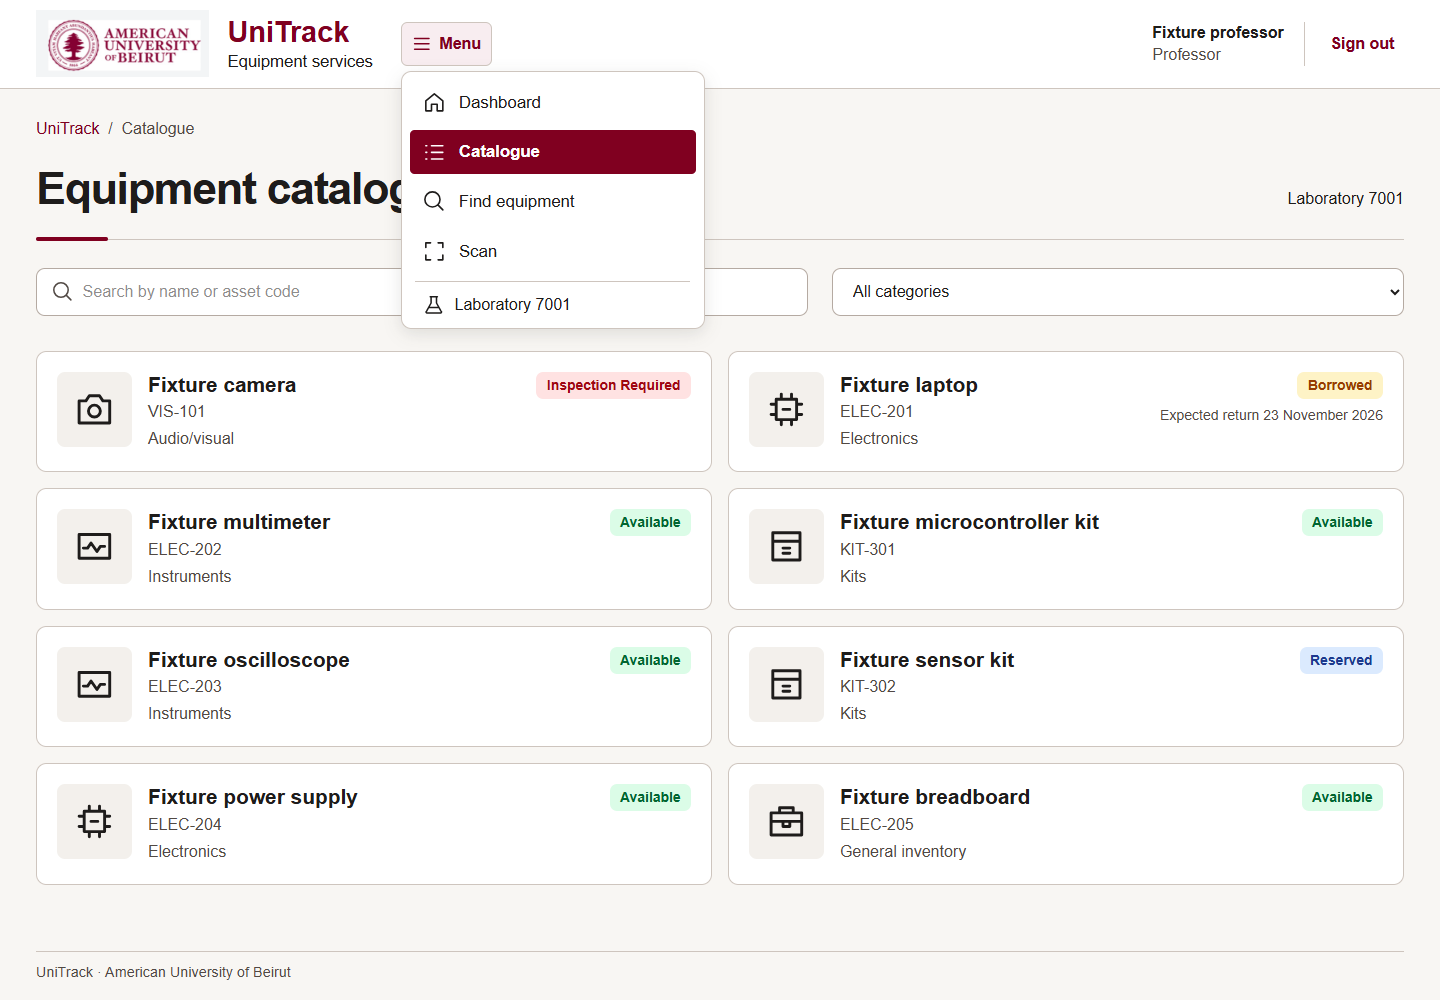
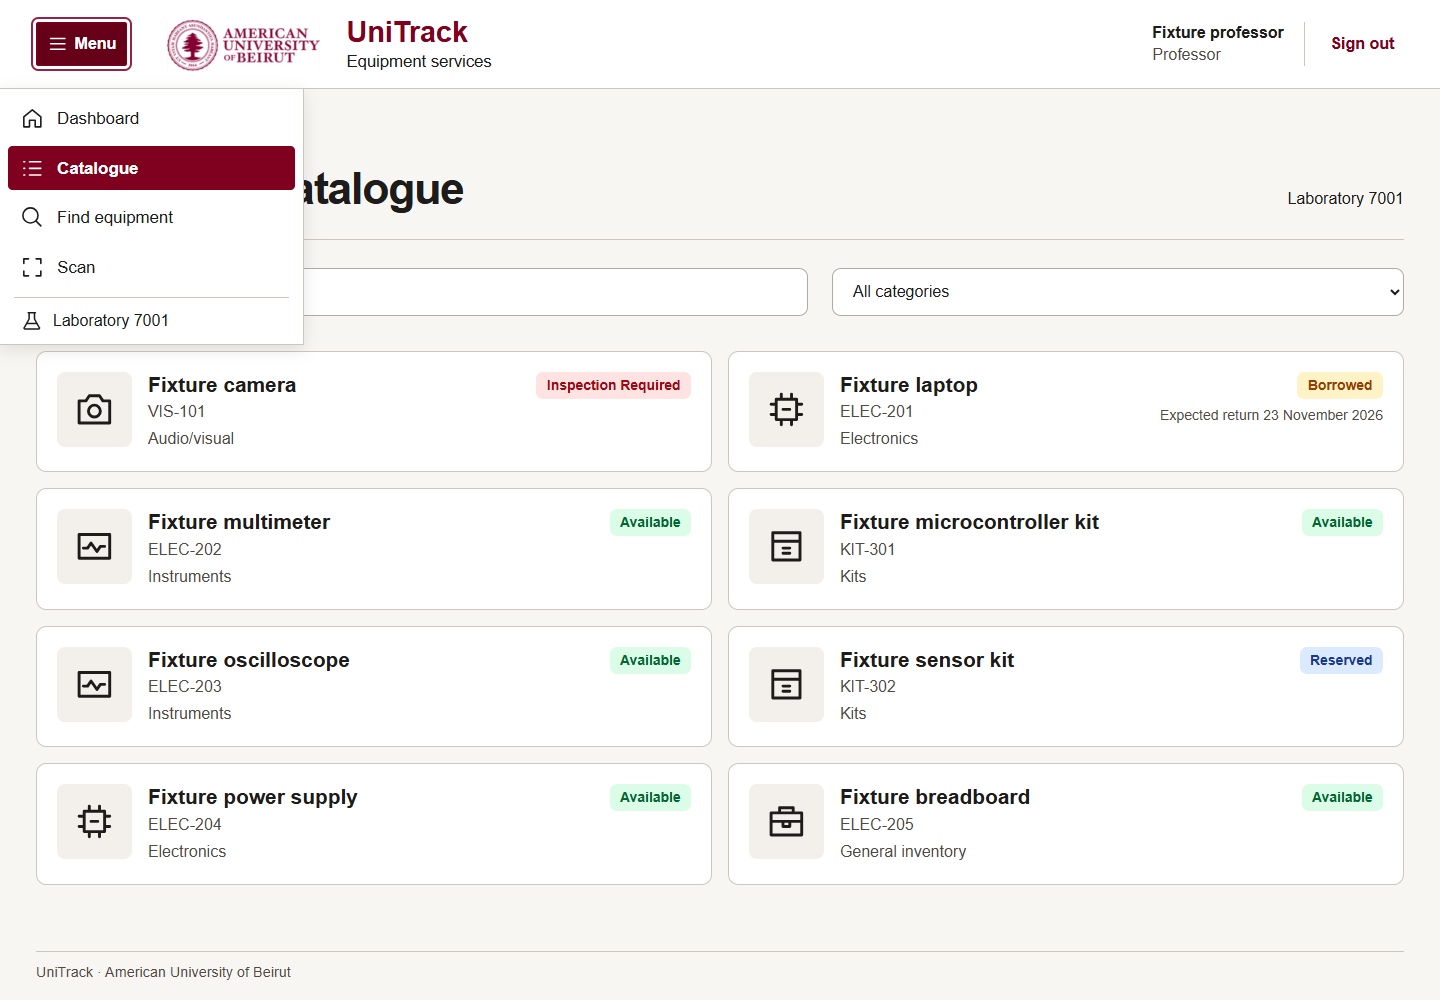
Refine the AUB header and left navigation drawer

Changed region(s): [[0.0, 0.0, 0.5, 0.341], [0.3125, 0.248, 0.4062, 0.31]]

diff --git a/apps/web/app/globals.css b/apps/web/app/globals.css
@@ -168,7 +168,7 @@ body {
   white-space: nowrap;
 }
 
-.sign-out:hover, .menu-toggle:hover { background: var(--color-aub-50); }
+.sign-out:hover { background: var(--color-aub-50); }
 
 .skip-link {
   position: absolute;
@@ -198,19 +198,24 @@ body {
   display: inline-flex;
   align-items: center;
   gap: .4rem;
-  border: 1px solid var(--line);
+  border: 1px solid var(--brand);
+  border-radius: .15rem;
+  background: var(--brand);
+  color: white;
 }
+
+.menu-toggle:hover, .menu-toggle[aria-expanded="true"] { background: var(--color-aub-800); }
 
 .workspace-menu-panel {
   position: absolute;
-  inset-block-start: calc(100% + .35rem);
-  inset-inline-start: var(--gutter);
-  width: min(19rem, calc(100% - 2 * var(--gutter)));
-  max-height: min(27rem, 65dvh);
+  inset-block-start: 100%;
+  inset-inline-start: 0;
+  width: min(19rem, calc(100% - 1rem));
+  max-height: min(30rem, 70dvh);
   overflow: auto;
   padding: .5rem;
   border: 1px solid var(--line);
-  border-radius: .65rem;
+  border-inline-start: 0;
   background: var(--paper);
   box-shadow: 0 .3rem 1rem #302c2920;
 }
@@ -409,11 +414,6 @@ body {
 .public-panel h1 { font-size: clamp(1.75rem, 3vw, 2.3rem); }
 .public-shell .site-footer { margin: 0 var(--gutter) 1rem; }
 
-@media (min-width: 45rem) {
-  .workspace-menu { position: relative; }
-  .workspace-menu-panel { inset-inline-start: 0; width: 19rem; }
-}
-
 @media (max-width: 68rem) {
   .catalogue-card-heading { grid-template-columns: auto minmax(0, 1fr); }
   .catalogue-status { grid-column: 2; text-align: left; }
@@ -426,6 +426,14 @@ body {
   .catalogue-filters, .catalogue-grid { grid-template-columns: minmax(0, 1fr); }
   .catalogue-card-heading { min-height: 0; }
   .public-content { align-items: start; }
+}
+
+@media (max-width: 23rem) {
+  .workspace-header-start { column-gap: .5rem; }
+  .workspace-header-start .brand { gap: .45rem; }
+  .workspace-header-start .brand img { width: 5rem; }
+  .workspace-header-start .brand-wordmark > span { font-size: .72rem; }
+  .menu-toggle { padding-inline: .45rem; }
 }
 
 .reserve-dates { container-type: inline-size; }

diff --git a/apps/web/tests/roles-navigation.test.tsx b/apps/web/tests/roles-navigation.test.tsx
@@ -41,6 +41,10 @@ describe("roles and navigation", () => {
     expect(markup).toContain('aria-expanded="false"');
     expect(markup).toContain('aria-controls="workspace-menu-panel"');
     expect(markup).toMatch(/id="workspace-menu-panel"[^>]+hidden=""/);
+    expect(markup.indexOf('aria-controls="workspace-menu-panel"')).toBeLessThan(
+      markup.indexOf('alt="American University of Beirut"'),
+    );
+    expect(markup).toContain('src="/aub-logo-transparent.png"');
     expect(markup).toMatch(/href="\/catalogue" aria-current="page"|aria-current="page" href="\/catalogue"/);
     expect(markup.match(/aria-label="Primary navigation"/g)).toHaveLength(1);
 

diff --git a/apps/web/components/app-navigation.tsx b/apps/web/components/app-navigation.tsx
@@ -10,8 +10,8 @@ export function AppNavigation({ profile }: { profile: Profile }) {
       <a className="skip-link" href="#main-content">Skip to content</a>
       <header className="institutional-header workspace-header">
         <div className="workspace-header-start">
-          <Brand href="/dashboard" />
           <WorkspaceMenu links={workspaceLinks(profile.role)} labId={profile.lab_id} />
+          <Brand href="/dashboard" />
         </div>
         <div className="workspace-account">
           <div className="account-identity">

diff --git a/apps/web/components/brand.tsx b/apps/web/components/brand.tsx
@@ -4,7 +4,7 @@ import Link from "next/link";
 export function Brand({ href = "/" }: { href?: string }) {
   return (
     <Link href={href} className="brand">
-      <Image src="/aub-logo.png" alt="American University of Beirut" width={427} height={165} loading="eager" unoptimized />
+      <Image src="/aub-logo-transparent.png" alt="American University of Beirut" width={427} height={165} loading="eager" unoptimized />
       <span className="brand-wordmark">
         <strong>UniTrack</strong>
         <span>Equipment services</span>

diff --git a/docs/aub-frontend-review.md b/docs/aub-frontend-review.md
@@ -14,9 +14,9 @@
 
 - The AUB workspace covers login, access denial, missing pages, dashboard, catalogue, lookup, scan, custody forms, and manager equipment, kits, categories, and roles. The catalogue retains its URL and uses Equipment’s name and asset-code search. On scan, asset-code lookup now comes before the scanner’s manual UUID fallback. Catalogue icons use known category names or the kit flag, with a generic icon for unknown categories.
 - At 375 pixels on handover and return, the skip link is visually clipped until focused. Keyboard focus puts it in a row above the header. Enter moves focus to `main#main-content`, then the link is visually clipped again. The updated screenshots were captured after clearing focus.
-- A single three-line Menu button opens the same role-aware navigation on desktop and mobile. The menu starts closed, and the layout uses the space formerly occupied by the sidebar. Forms retain readable maximum widths. Escape restores focus to Menu. Clicking outside or selecting a destination closes the overlay. Active links and dashboard shortcuts remain available.
+- A rectangular burgundy Menu button sits before the AUB logo on desktop and mobile. It opens one left-edge drawer with the existing role links and active state. The drawer starts closed. Escape restores focus to Menu, and clicking outside or selecting a destination closes it. Forms retain readable maximum widths.
 - The original screenshot fixture saved the Loans result as `checked_out` but kept returning a static `reserved` Equipment snapshot. The handover UI used the snapshot for both labels. The fixture now advances its Equipment snapshot on successful checkout. The UI uses the validated confirmation or recovery response for “Equipment status at handover” and the Equipment read for “Current equipment status.” A focused regression passes through the Web gateway and service handlers with a deliberately different Equipment read. A reopened record shows its current status using the live Equipment read. The existing Loans service checks the checkout receipt and status before recording completion. The inconsistent screenshot established no backend defect.
-- The header uses a smaller, proportional logo without a wrapper divider. The pale rectangle comes from opaque pixels in the supplied PNG, whose Git blob is identical to the initial implementation. Removing the rectangle requires a transparent original from the source.
+- The pale grey rectangle was baked into the supplied PNG. The header uses a 427 × 165 derivative that changes only the alpha channel of 23,707 connected grey matte pixels. All other pixels and the original file are unchanged. The white artwork field is retained. The lettering and seal were inspected at normal size and at twice the source width.
 - Run the real services with `npm run dev:all` and open `http://localhost:3000`. Next.js accepted the HMR upgrade with HTTP 101 on `localhost` and logged a development-origin denial for `127.0.0.1`. The real student dashboard hydrated on the documented hostname, and the synthetic signed-in browser suite also passed there in dev mode. Origin checks, authentication, and TLS settings are unchanged.
 
 ## Verification
@@ -28,19 +28,21 @@
 | Real services and existing browser session | PASS | After the header update, all four health endpoints returned HTTP 200, anonymous protected pages redirected, and the catalogue API returned 401. A 61.9-second development browser probe retained both login fields with zero reloads after a brief startup refresh burst. Earlier live student verification reached the dashboard and the Web and Loans return-problems endpoints returned HTTP 200. |
 | Authenticated Chromium with synthetic upstreams | PASS | Desktop and mobile catalogue, clipped and focused skip link, correct skip target, asset-code lookup placement, role denial, manager screens, reservation submission, handover confirmation and recovery, normal and fresh damaged returns, history and student issue visibility. |
 | Shared header menu in Chromium with synthetic upstreams | PASS | Student, Professor, Lab Assistant, and Lab Manager at 1440 and 375 pixels. Checked default closure, exact role links, active link, Enter and Tab, Escape and restored focus, outside click, closing on navigation, and manager form width. |
+| Left drawer and logo refinement | PASS | Focused navigation tests, Web lint and typecheck, plus Edge fixture checks at 1440, 375, and 320 pixels. Verified button and brand order, no overlap, the left-edge rectangle, active styling, Escape and focus restoration, outside click, and closing on selection. |
 | Synthetic QR camera | PASS | Chromium decoded a prerecorded QR stream and stopped the scanner. |
 | Real Professor acceptance | PASS | Confirmed Professor session in the controlled Edge InPrivate window. Role navigation, catalogue filtering, successful and no-match lookup (HTTP 200 and 404), and manual UUID input passed. Assistant scan controls and manager navigation were absent. The direct manager route displayed Access denied, and the student return-problems API returned HTTP 403. |
-| Live custody and manager acceptance | BLOCKED | A test-labelled item was available in the catalogue. Its designation and pickup windows still need confirmation, and the remaining workflows require separate designated role access. No shared records were mutated. |
+| Live normal custody scenario | BLOCKED | The test asset is approved. The controlled Edge InPrivate window is awaiting the designated Student sign-in. No reservation, handover, or return was submitted. |
+| Live problematic return and manager acceptance | BLOCKED | The problematic return follows a successful normal scenario and requires a separate valid, non-overlapping pickup window. Manager acceptance requires a designated manager. |
 | Physical-device camera and deployed acceptance | NOT RUN | Desktop Chromium emulated mobile viewports and camera input. |
 
 The initial baseline build stopped at a Next.js version notice. Restoring the lockfile pin with `npm ci` resolved that. Earlier disposable harness runs hit a sub-millisecond status-guard case and a transient container socket startup error. Its final standard run passed.
 
 ## Screenshots
 
-- Login [desktop](aub-theme-screenshots/login-desktop.png) and [mobile](aub-theme-screenshots/login-mobile.png)
+- Previous login [desktop](aub-theme-screenshots/login-desktop.png) and [mobile](aub-theme-screenshots/login-mobile.png)
 - Updated catalogue [desktop](aub-theme-screenshots/catalogue-desktop-fixture.png) and [mobile](aub-theme-screenshots/catalogue-mobile-fixture.png)
-- Open menu [desktop](aub-theme-screenshots/menu-desktop-fixture.png) and [mobile](aub-theme-screenshots/menu-mobile-fixture.png)
-- Updated [manager equipment](aub-theme-screenshots/manager-equipment-desktop-fixture.png) and [scan](aub-theme-screenshots/scan-mobile-fixture.png)
+- Open left drawer [desktop](aub-theme-screenshots/menu-desktop-fixture.png) and [mobile](aub-theme-screenshots/menu-mobile-fixture.png)
+- Previous [manager equipment](aub-theme-screenshots/manager-equipment-desktop-fixture.png) and [scan](aub-theme-screenshots/scan-mobile-fixture.png)
 - Previous custody verification [handover](aub-theme-screenshots/handover-mobile-fixture.png), [normal return history](aub-theme-screenshots/return-history-mobile-fixture.png), and [problematic return history](aub-theme-screenshots/problem-return-mobile-fixture.png)
 
 The authenticated screenshots contain synthetic profiles and equipment.
@@ -49,6 +51,6 @@ The authenticated screenshots contain synthetic profiles and equipment.
 
 **NOT READY for live acceptance.** Provide the following for the remaining checks.
 
-- Provide a designated student and lab assistant in the same lab for custody checks, and a designated lab manager for live manager checks.
-- Confirm an eligible test asset and two pickup windows in that lab, or a second test asset with its own window, for fresh normal and problematic return scenarios.
+- Sign in as the designated Student in the controlled Edge InPrivate window. Use the approved asset for a fresh normal reservation, then switch to the same-lab Lab Assistant at the eligible pickup time.
+- Check for a second valid, non-overlapping window only after the normal return is complete. A designated Lab Manager is needed for live manager checks.
 - Provide a physical phone and QR label for device acceptance, and an accessible deployed URL if deployed acceptance is required.
